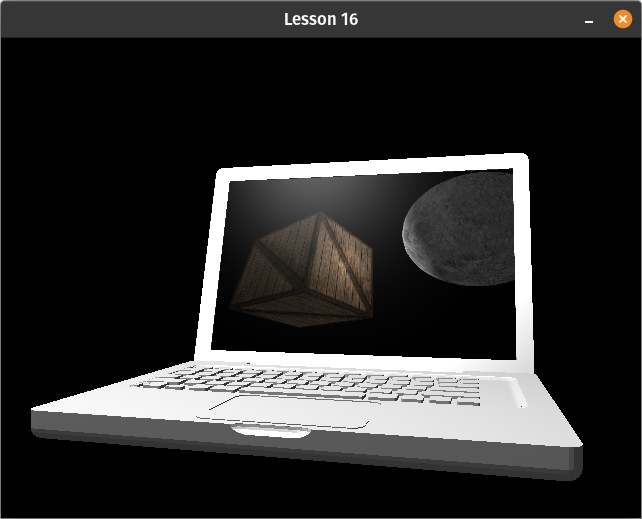
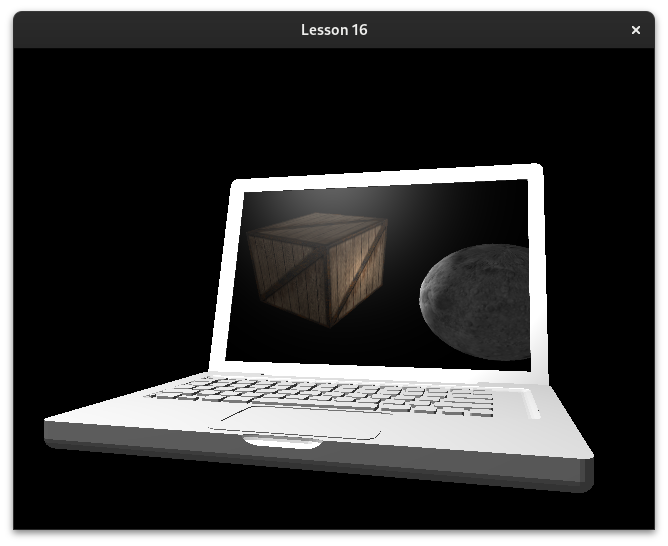
Fix/update things based on fixed orientation of render textures

Changed region(s): [[0.0, 0.0, 1.0, 1.0], [0.8411, 0.7399, 0.8723, 0.8015]]

diff --git a/demos/main.cpp b/demos/main.cpp
@@ -58,6 +58,7 @@ void interpolate_vs(float* vs_output, pgl_vec4* vertex_attribs, Shader_Builtins*
 void interpolate_fs(float* fs_input, Shader_Builtins* builtins, void* uniforms);
 void texture_replace_vs(float* vs_output, pgl_vec4* vertex_attribs, Shader_Builtins* builtins, void* uniforms);
 void texture_replace_fs(float* fs_input, Shader_Builtins* builtins, void* uniforms);
+void texture_replace_flip_fs(float* fs_input, Shader_Builtins* builtins, void* uniforms);
 
 
 
@@ -346,6 +347,13 @@ int main(int argc, char** argv)
 	pglSetUniform(&the_uniforms);
 
 
+	// This is a hack till I fix my UV's in my 3D primitive creation functions
+	GLenum interpolation[] = { PGL_SMOOTH2 };
+	GLuint tex_flip_shader = pglCreateProgram(texture_replace_vs, texture_replace_flip_fs, 2, interpolation, GL_FALSE);
+	glUseProgram(tex_flip_shader);
+	pglSetUniform(&the_uniforms);
+
+
 	glGenTextures(NUM_TEXTURES, textures);
 	printf("textures = %d %d\n", textures[0], textures[1]);
 	glBindTexture(GL_TEXTURE_2D, textures[0]);
@@ -455,7 +463,13 @@ int main(int argc, char** argv)
 			glClear(GL_COLOR_BUFFER_BIT | GL_DEPTH_BUFFER_BIT);
 
 
-		glUseProgram(my_programs[cur_shader]);
+		// TODO remove flip shader once I fix UVs
+		if (!cur_shader) {
+			glUseProgram(my_programs[cur_shader]);
+		} else {
+			glUseProgram(tex_flip_shader);
+		}
+
 		the_uniforms.tex = textures[2];
 
 		the_uniforms.mvp = MVP;
@@ -599,6 +613,14 @@ void texture_replace_fs(float* fs_input, Shader_Builtins* builtins, void* unifor
 
 
 	builtins->gl_FragColor = texture2D(tex, tex_coords.x, tex_coords.y);
+}
+
+void texture_replace_flip_fs(float* fs_input, Shader_Builtins* builtins, void* uniforms)
+{
+	vec2 tex_coords = ((vec2*)fs_input)[0];
+	GLuint tex = ((My_Uniforms*)uniforms)->tex;
+
+	builtins->gl_FragColor = texture2D(tex, tex_coords.x, 1.0f-tex_coords.y);
 }
 
 bool handle_events()

diff --git a/portablegl.h b/portablegl.h
@@ -304,7 +304,7 @@ RENDER TARGETS / FBOs
     - Default framebuffer 0 color = pix_t (for present / SDL / etc.).
     - FBO color attachments = texture memory: tightly packed RGBA8 (Color) or
       float R32F / RG32F / RGBA32F (no RGB32F), created with glTexImage* or
-      mapped with pglTex*/pglTextureImage*. Draw and sample use that layout.
+      mapped with pglTexImage* / pglTextureImage*. Draw and sample use that layout.
     - RGB565 (or other 16-bit pix_t) as the *window* format does not make offscreen
       attachments 16-bit; composite/sample into the window as a separate step.
 
